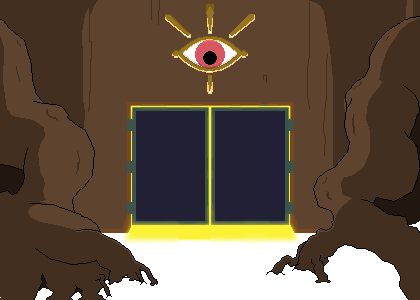
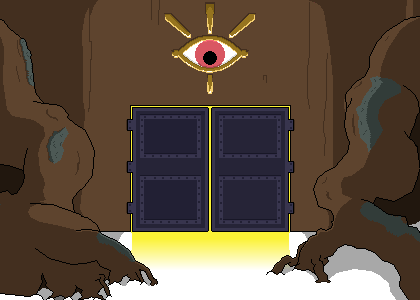
adding sprites to password scene with tile animation, improving appearance of starting area

diff --git a/src/gamemodules/PasscodeScreen.js b/src/gamemodules/PasscodeScreen.js
@@ -1,12 +1,13 @@
-import { Container, Graphics } from "pixi.js";
+import { AnimatedSprite, Container, Graphics } from "pixi.js";
 import { GameObject } from "../gamecore/GameObject";
 import { Vector2D } from "../gamecore/Vector2D";
 import { MenuButton } from "./MenuButton";
 import { CreateDanceTile } from "./ColorDanceTile";
 import { ShakeAnimator } from "./MenuAnimator";
+import { GetTexture } from "../gamecore/AssetStore";
 
 class PasscodeScreen extends GameObject{
-    constructor(context){
+    constructor(context, eyeData, tileData){
         super(context, new Vector2D(0, 0,), new Vector2D(0, 0));
         this.passcodeContainer = new Container();
         let background = new Graphics();
@@ -14,15 +15,18 @@ class PasscodeScreen extends GameObject{
         background.fill('black');
         this.passcodeContainer.addChild(background);
 
-        this.hagathaEye = new Graphics();
-        this.hagathaEye.rect(0, 0, 200, 100);
-        this.hagathaEye.fill('magenta');
+        let hagathaEyeTexture = GetTexture(eyeData.sprite);
+        this.hagathaEye = new AnimatedSprite(hagathaEyeTexture.animations[eyeData.default]);
+        this.hagathaEye.loop = eyeData.loop;
+        this.hagathaEye.animationSpeed = eyeData.speed;
+        this.hagathaEye.scale = 1.5;
+        this.hagathaEye.play();
         this.passcodeContainer.addChild(this.hagathaEye);
 
         this.danceTileCollections = [];
         this.danceTileContainer = new Container();
         for (let i = 0; i < this.context.code.length; i++){
-            let danceTile = CreateDanceTile();
+            let danceTile = CreateDanceTile(tileData);
             this.danceTileCollections.push(danceTile);
             danceTile.x = i * danceTile.width + i * 10;
             this.danceTileContainer.addChild(danceTile);
@@ -35,13 +39,15 @@ class PasscodeScreen extends GameObject{
 
         this.hagathaEye.position.set((this.context.app.canvas.width / 2) - (this.hagathaEye.width / 2),
             100);
-        this.danceTileContainer.position.set((this.context.app.canvas.width / 2) - (this.danceTileContainer.width / 2),
-            this.hagathaEye.position.y + this.hagathaEye.height);
-        this.submitButton.setPosition((this.context.app.canvas.width / 2) - (this.submitButton.width / 2), 
-            this.danceTileContainer.y + this.danceTileContainer.height);
-        this.backButton.setPosition((this.context.app.canvas.width / 2) - (this.backButton.width / 2), 
-            this.submitButton.y + this.submitButton.height);
 
+
+        this.backButton.setPosition((this.context.app.canvas.width / 2) - (this.backButton.width / 2), 
+            this.context.app.canvas.height - this.backButton.height);
+        this.submitButton.setPosition((this.context.app.canvas.width / 2) - (this.submitButton.width / 2), 
+            this.backButton.y - this.submitButton.height);
+        this.danceTileContainer.position.set((this.context.app.canvas.width / 2) - (this.danceTileContainer.width / 2),
+            this.submitButton.y - this.danceTileContainer.height);
+        
         this.passcodeContainer.visible = false;
         this.context.app.stage.addChild(this.passcodeContainer);
     }

diff --git a/src/gamemodules/ColorDanceTile.js b/src/gamemodules/ColorDanceTile.js
@@ -1,39 +1,70 @@
-import { Graphics } from "pixi.js";
+import { AnimatedSprite, Container } from "pixi.js";
 import { CodeValues } from "./CodeGenerator";
+import { GetTexture } from "../gamecore/AssetStore";
 
-function CreateDanceTile(){
-    let danceTile = new Graphics();
-    danceTile.rect(0, 0, 65, 65);
-    danceTile.fill('white');
+function CreateDanceTile(data){
+    let danceTile = new Container();
+    let tile1 = new AnimatedSprite(GetTexture(data.sprite).animations[data.default]);
+    tile1.loop = data.loop;
+    tile1.animationSpeed = data.speed;
+
+    let tile2 = new AnimatedSprite(GetTexture(data.sprite).animations[data.default]); 
+    tile2.loop = data.loop;
+    tile2.animationSpeed = data.speed;
+    tile2.tint = 'red';
+
+    danceTile.addChild(tile2);
+    danceTile.addChild(tile1);
+
     danceTile.colorCode = -1;
     danceTile.eventMode = 'static';
-    danceTile.on('mousedown', () => SwitchColor(danceTile));
-    danceTile.on('touchstart', () => SwitchColor(danceTile));
+    danceTile.ready = true;
+    danceTile.on('mousedown', () => TileClick(danceTile));
+    danceTile.on('touchstart', () => TileClick(danceTile));
     danceTile.GetColorValue = () => GetColorValue(danceTile);
     danceTile.ResetColor = () => {
         danceTile.colorCode = -1;
-        danceTile.tint = 'white';
+        danceTile.removeChildren();
+        danceTile.addChild(tile2);
+        danceTile.addChild(tile1);
+        tile1.tint = 'white';
+        tile2.tint = 'red';
     }
     return danceTile;
 }
 
-function SwitchColor(danceTile){
-    switch(danceTile.colorCode){
-        case -1:
+function TileClick(danceTile){
+    if (danceTile.ready){
+        let primary = danceTile.getChildAt(1);
+        primary.play();
+        danceTile.ready = false;
+        primary.onComplete = () => {
+            let previous = primary;
+            primary = danceTile.getChildAt(1);
+            danceTile.swapChildren(danceTile.getChildAt(0), danceTile.getChildAt(1));
+            previous.gotoAndStop(0);
+            SwitchColor(danceTile.colorCode, previous);
             danceTile.colorCode++;
-            danceTile.tint = 'red';
+            if (danceTile.colorCode > 2) danceTile.colorCode = 0;
+            danceTile.ready = true;
+        }
+    }
+}
+
+function SwitchColor(colorCode, nextSprite){
+
+    switch(colorCode){
+        case -1:
+            nextSprite.tint = 'blue';
             break;
         case 0:
-            danceTile.colorCode++;
-            danceTile.tint = 'blue';
+            nextSprite.tint = 'yellow';
             break;
         case 1:
-            danceTile.colorCode++;
-            danceTile.tint = 'yellow';
+            nextSprite.tint = 'red';
             break;
         case 2:
-            danceTile.colorCode = 0;
-            danceTile.tint = 'red';
+            nextSprite.tint = 'blue';
             break;
     }
 }

diff --git a/src/OutsideClub.jsx b/src/OutsideClub.jsx
@@ -7,7 +7,7 @@ import { JournalSfx, JournalTheme } from './data/assetkeys.js';
 import { Howl } from 'howler';
 import './OutsideClub.css';
 import { Vector2D } from './gamecore/Vector2D.js';
-import { Arturo, BorisBlank, BorisHelpful } from './gamemodules/CharacterData.js';
+import { Arturo, BorisBlank, BorisHelpful, DanceTile, DoorEye } from './gamemodules/CharacterData.js';
 import { GameObject } from './gamecore/GameObject.js';
 import { OverworldClubEntrance } from './gamemodules/OverworldClubEntrance.js';
 import { DialogTemplate } from './gamemodules/DialogTemplate.js';
@@ -56,6 +56,9 @@ function OutsideClub(){
             await LoadAnimatedSpriteData(Arturo.overworld);
             await LoadAnimatedSpriteData(BorisBlank.overworld);
             await LoadAnimatedSpriteData(BorisHelpful.overworld);
+            await LoadAnimatedSpriteData(DoorEye.overworld);
+            await LoadAnimatedSpriteData(DanceTile.overworld);
+
             let backgroundTexture = await Assets.load('/assets/FloorTile.png');
             let background = new TilingSprite({
                 texture: backgroundTexture,
@@ -84,21 +87,16 @@ function OutsideClub(){
                 GameObject.destroy(BorisBlankCharacter);
             }
 
-            let clubEntrance = new OverworldClubEntrance(context);
+            let clubEntrance = new OverworldClubEntrance(context, DoorEye.overworld, DanceTile.overworld);
             context.gameObjects.push(clubEntrance);
             context.dialog = new DialogTemplate(context);
             context.gameObjects.push(context.dialog);
 
-            // journalTextureRef.current = await Assets.load("/assets/JournalTexture.png");
-            // buttonTextureRef.current = await Assets.load("/assets/JournalButton.png");
             // Assets.addBundle('fonts', [{
             //     alias: 'CasualCursive',
             //     src: "/assets/CasualCursive.ttf"
             // }]);
             // await Assets.loadBundle('fonts');
-            // generateButtons(app);
-            // renderJournalEntry(app, JournalEntryData.Entries[currentPage]);
-            // renderButtons(app);
             app.ticker.add((time) => {
                 for (let i = 0; i < context.gameObjects.length; i++){
                     if (!context.gameObjects[i].isDestroyed && context.gameObjects[i].isEnabled){

diff --git a/src/gamemodules/OverworldCharacter.js b/src/gamemodules/OverworldCharacter.js
@@ -1,4 +1,4 @@
-import { AnimatedSprite } from "pixi.js";
+import { AnimatedSprite, Graphics } from "pixi.js";
 import { GameObject } from "../gamecore/GameObject";
 import { Vector2D } from "../gamecore/Vector2D";
 import { GetTexture } from "../gamecore/AssetStore";
@@ -13,10 +13,21 @@ class OverworldCharacter extends GameObject{
         this.postion = new Vector2D(Math.round(position.x), Math.round(position.y));
 
         this.generateOverworldSprite(data.overworld)
-        // this.overworldSprite.rect(0, 0, dimensions.x, dimensions.y);
-        // this.overworldSprite.fill('#FFFFFF');
-        this.overworldSprite.position.set(this.position.x, this.position.y);
+        this.shadow = new Graphics();
+        this.shadow.ellipse(0, 
+            0,
+            this.overworldSprite.width * .2,
+            this.overworldSprite.width * .2);
+        this.shadow.fill({
+            color: 'black',
+            alpha: 0.4
+        });
+        this.context.app.stage.addChild(this.shadow);
         this.context.app.stage.addChild(this.overworldSprite);
+        this.overworldSprite.position.set(this.position.x, this.position.y);
+        this.shadow.position.set(this.overworldSprite.x + this.overworldSprite.width / 2, 
+            this.overworldSprite.y + this.overworldSprite.height);
+
         this.overworldSprite.eventMode = 'static';
         this.overworldSprite.on('mousedown', () => {this.overworldSpriteClick()});
         this.overworldSprite.on('touchstart', () => {this.overworldSpriteClick()});
@@ -49,11 +60,12 @@ class OverworldCharacter extends GameObject{
     }
 
     show(){
+        this.shadow.visible = true;
         this.overworldSprite.visible = true;
     }
 
     hide(){
-        console.log(this);
+        this.shadow.visible = false;
         this.overworldSprite.visible = false;
     }
 

diff --git a/src/gamemodules/OverworldClubEntrance.js b/src/gamemodules/OverworldClubEntrance.js
@@ -5,7 +5,7 @@ import { PasscodeScreen } from "./PasscodeScreen";
 import { GetTexture } from "../gamecore/AssetStore";
 
 class OverworldClubEntrance extends GameObject{
-    constructor(context){
+    constructor(context, hagathaEye, danceTile){
         super(context, new Vector2D(0, 0), new Vector2D(0, 0));
         let texture = GetTexture('/assets/ClubEntrance_Overworld.png');
         let entranceSprite = new Sprite(texture);
@@ -13,7 +13,7 @@ class OverworldClubEntrance extends GameObject{
         entranceSprite.eventMode = 'static';
         this.context.app.stage.addChild(entranceSprite);
 
-        this.passcodeScreen = new PasscodeScreen(context);
+        this.passcodeScreen = new PasscodeScreen(context, hagathaEye, danceTile);
         this.context.gameObjects.push(this.passcodeScreen);
         entranceSprite.on('mousedown', () => {this.openPasscodeScreen()});
         entranceSprite.on('touchstart', () => {this.openPasscodeScreen()});

diff --git a/src/gamemodules/CharacterData.js b/src/gamemodules/CharacterData.js
@@ -65,4 +65,24 @@ const BorisHelpful = {
     }
 }
 
-export {BorisBlank, BorisHelpful, Arturo}
+const DoorEye = {
+    overworld: {
+        sprite: '/assets/DoorEye.png',
+        animations: '/assets/DoorEye.json',
+        default: 'move',
+        loop: true,
+        speed: 0.1
+    }
+}
+
+const DanceTile = {
+    overworld: {
+        sprite: '/assets/DanceTile.png',
+        animations: '/assets/DanceTile.json',
+        default: 'fade',
+        loop: false,
+        speed: 0.5
+    }
+}
+
+export {BorisBlank, BorisHelpful, Arturo, DoorEye, DanceTile}
